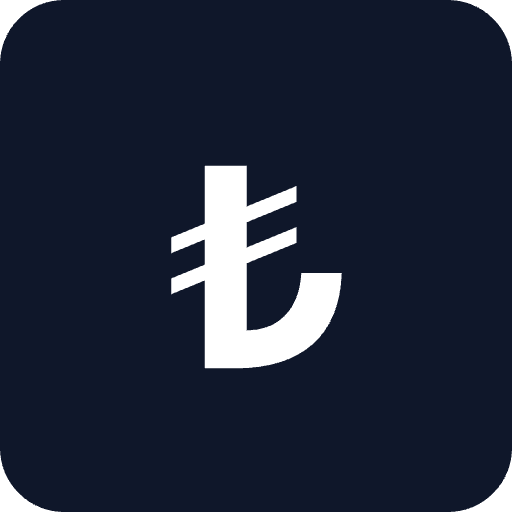
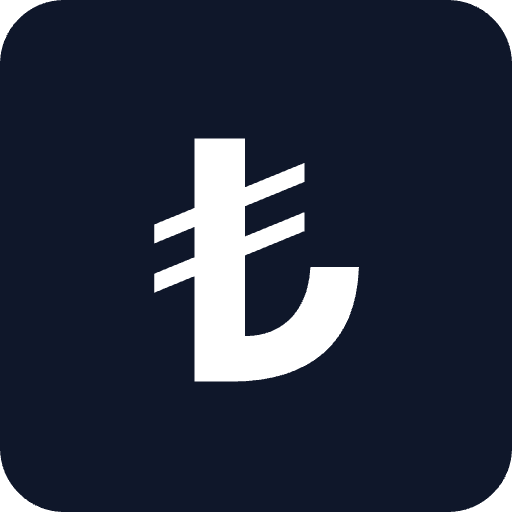
fix(push): bildirimde sagdaki buyuk ikonu kaldir + sol ₺'yi dolgunlastir
- push-handler: 'icon' (buyuk sag gorsel) kaldirildi; soldaki uygulama ikonu zaten
  ₺ gosteriyor, tekrar gereksizdi. 'badge' (durum cubugu silueti) kaldi.
- ikon PNG'leri daha dolgun ₺ ile yeniden uretildi (kare/daireyi daha iyi doldurur,
  maskable guvenli bolge icinde).

Changed region(s): [[0.2812, 0.25, 0.7188, 0.75]]

diff --git a/public/push-handler.js b/public/push-handler.js
@@ -17,9 +17,10 @@ self.addEventListener('push', function (event) {
   }
 
   var title = data.title || 'Hesabını Bil!';
+  // 'icon' (buyuk sag gorsel) BILEREK yok: soldaki uygulama ikonu (pwa-192) zaten ₺'yi
+  // gosteriyor; sagda ayni logoyu tekrar gostermek gereksiz. 'badge' = durum cubugu siluet.
   var options = {
     body: data.body || '',
-    icon: '/pwa-192.png',
     badge: '/badge-96.png',
     tag: data.tag || 'hesabini-bil',
     renotify: true,
